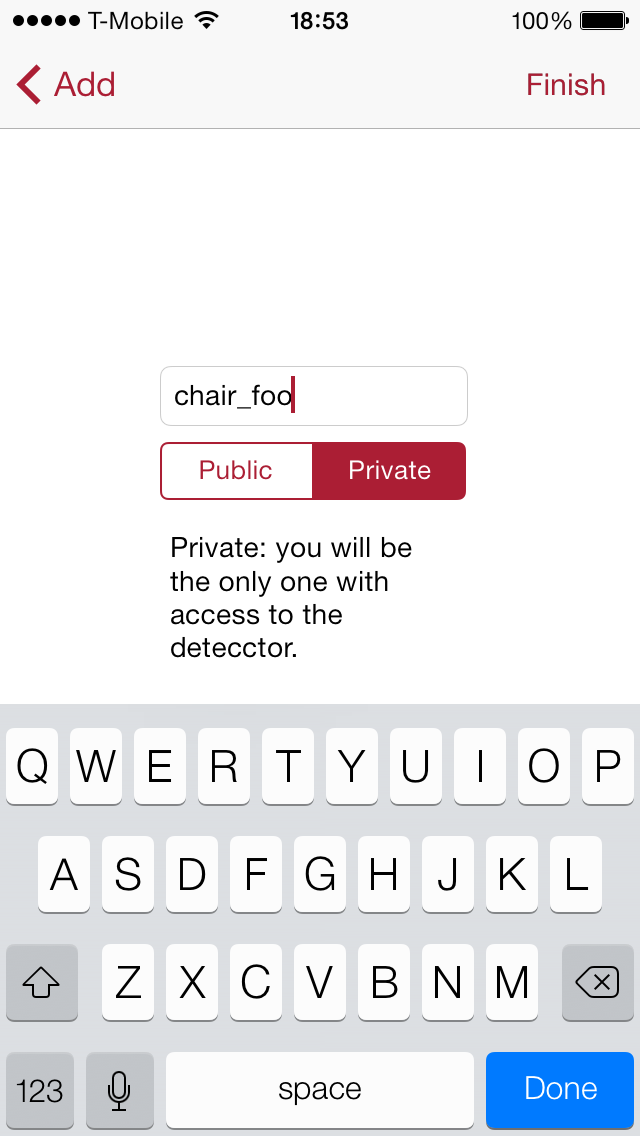
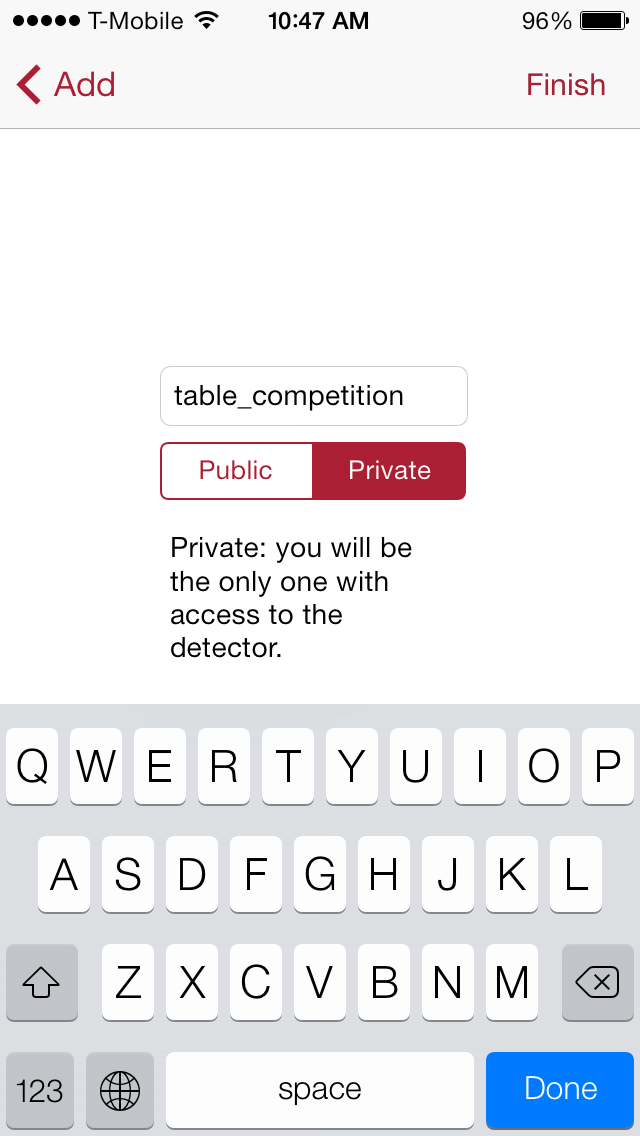
Changes in the competition details

diff --git a/detectme/templates/leaderboards/competition_detail.html b/detectme/templates/leaderboards/competition_detail.html
@@ -28,12 +28,13 @@
     trained with more than 30 images.</p>
 
     <p>To submit a detector, a user should train a detector and name it
-    starting with: "[name of the category]_". For instance, if one wants
-    to submit his or hers table's detector, he or she could name it
-    <b>table_detector</b> or <b> table_Steve </b>. After the training process, the detector will be
+    starting with: "[name of the category]_competition". For instance, if one wants
+    to submit his or hers table's detector, he or she should name it
+    <b>table_competition</b>. After the training process, the detector will be
     automatically uploaded to our server. We strongly recommend to mark
     the detectors submitted for competition as private, otherwise they
     will be available to all the other users.</p>
+
 
      <center><img src="{% static "img/ex.png" %}" alt="some_text" height="32"></center>
      
@@ -41,7 +42,7 @@
     <p>Each time a user submits a detector, our system will evaluate it and
     show its performance in the leaderboard. If a user submits more than
     one detector per category, the leaderboard will only take into account
-    the best of his detectors.</p>
+    the best of his detectors. DetectMe allows more than one detector with the same name, therefore user can have as many detectors as they want per each category. </p>
 
     <p>Finally, every user is free to submit detectors to as many categories
     as he want. The evaluation for prizing will be completely
